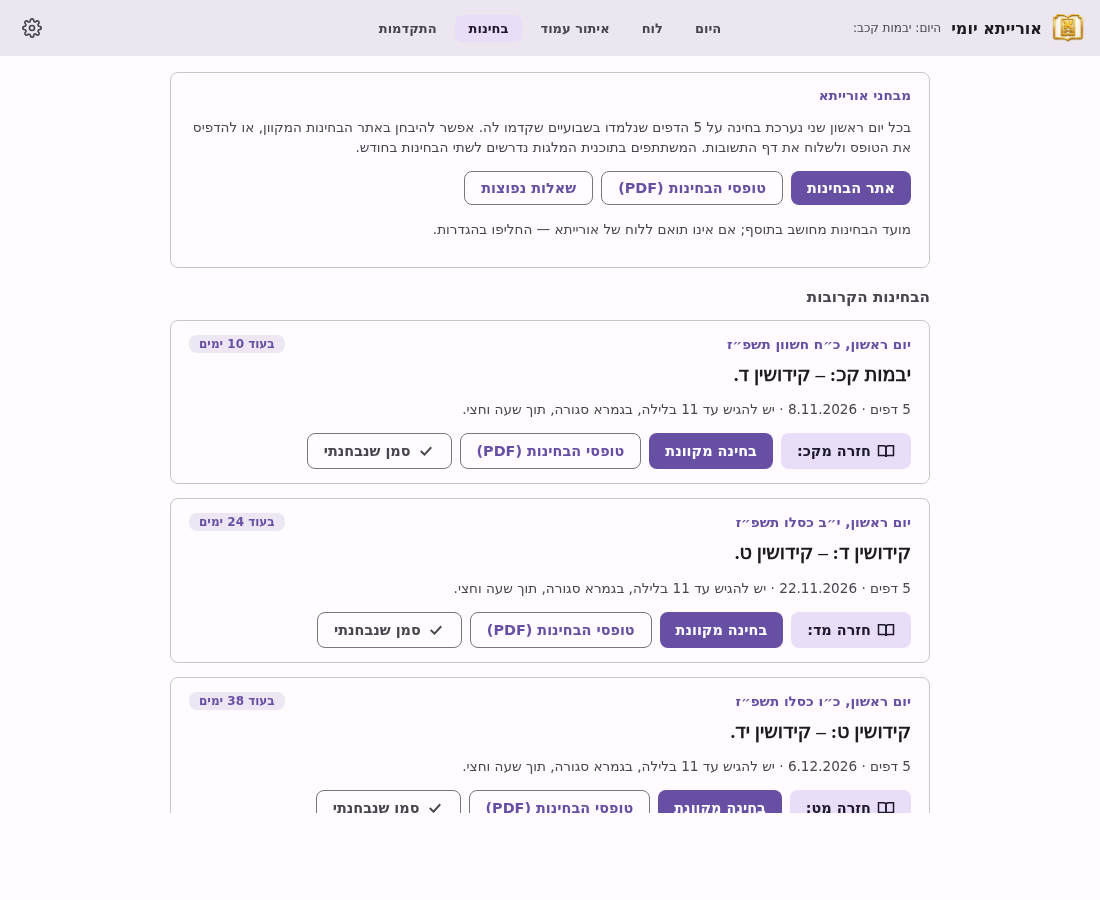
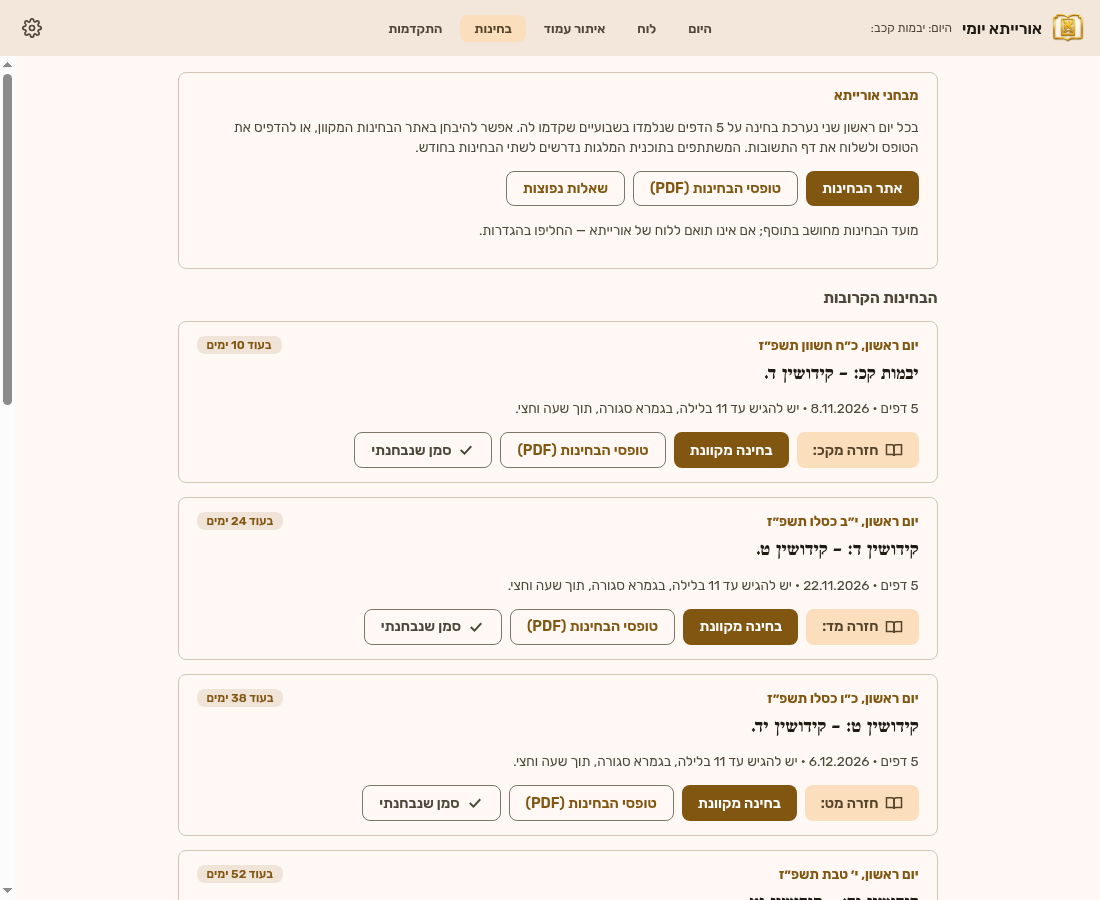
Match Otzaria's theme colors and fonts (default palette, inverse surfaces, color-scheme, reading font for dates)

diff --git a/css/style.css b/css/style.css
@@ -1,21 +1,26 @@
 :root {
-  --color-primary: #6750A4;
+  color-scheme: light;
+  --color-primary: #805610;
   --color-on-primary: #FFFFFF;
-  --color-secondary: #625B71;
+  --color-primary-container: #FFDDB3;
+  --color-on-primary-container: #633F00;
+  --color-secondary: #6F5B40;
   --color-on-secondary: #FFFFFF;
-  --color-secondary-container: #E8DEF8;
-  --color-on-secondary-container: #1D192B;
-  --color-tertiary: #7D5260;
-  --color-surface: #FFFBFE;
-  --color-on-surface: #1C1B1F;
-  --color-on-surface-variant: #49454F;
-  --color-surface-container: #F3EDF7;
-  --color-surface-container-high: #ECE6F0;
-  --color-surface-container-highest: #E6E0E9;
-  --color-error: #B3261E;
+  --color-secondary-container: #FBDEBC;
+  --color-on-secondary-container: #56442A;
+  --color-tertiary: #51643F;
+  --color-surface: #FFF8F4;
+  --color-on-surface: #201B13;
+  --color-on-surface-variant: #4F4539;
+  --color-surface-container: #F9ECDF;
+  --color-surface-container-high: #F3E6DA;
+  --color-surface-container-highest: #EDE0D4;
+  --color-inverse-surface: #362F27;
+  --color-on-inverse-surface: #FCEFE2;
+  --color-error: #BA1A1A;
   --color-on-error: #FFFFFF;
-  --color-outline: #79747E;
-  --color-outline-variant: #CAC4D0;
+  --color-outline: #817567;
+  --color-outline-variant: #D3C4B4;
   --color-scrim: #000000;
   --color-primary-subtle: color-mix(in srgb, var(--color-primary) 12%, transparent);
   --color-error-subtle: color-mix(in srgb, var(--color-error) 10%, transparent);
@@ -108,7 +113,7 @@ button { font-family: var(--font-ui); }
 
 .day-nav { display: flex; align-items: center; gap: 8px; }
 .day-nav .date-block { flex: 1; text-align: center; min-width: 0; }
-.date-main { font-size: 1.25rem; font-weight: 700; }
+.date-main { font-family: var(--font-main); font-size: 1.35rem; font-weight: 700; }
 .date-sub { font-size: 0.85rem; color: var(--color-on-surface-variant); margin-top: 2px; }
 .holiday { color: var(--color-primary); font-weight: 600; }
 
@@ -212,7 +217,7 @@ tr.clickable:hover td { background: var(--color-primary-subtle); }
 
 .toast {
   position: fixed; bottom: 18px; left: 50%; transform: translateX(-50%);
-  background: var(--color-on-surface); color: var(--color-surface);
+  background: var(--color-inverse-surface); color: var(--color-on-inverse-surface);
   padding: 10px 18px; border-radius: var(--radius-md); font-size: 0.9rem; z-index: 30;
 }
 

diff --git a/js/otzaria.js b/js/otzaria.js
@@ -37,6 +37,7 @@
     const root = document.documentElement;
     const map = {
       '--color-primary': cs.primary, '--color-on-primary': cs.onPrimary,
+      '--color-primary-container': cs.primaryContainer, '--color-on-primary-container': cs.onPrimaryContainer,
       '--color-secondary': cs.secondary, '--color-on-secondary': cs.onSecondary,
       '--color-secondary-container': cs.secondaryContainer, '--color-on-secondary-container': cs.onSecondaryContainer,
       '--color-tertiary': cs.tertiary,
@@ -45,9 +46,11 @@
       '--color-surface-container-highest': cs.surfaceContainerHighest,
       '--color-error': cs.error, '--color-on-error': cs.onError,
       '--color-outline': cs.outline, '--color-outline-variant': cs.outlineVariant,
+      '--color-inverse-surface': cs.inverseSurface, '--color-on-inverse-surface': cs.onInverseSurface,
       '--color-scrim': cs.scrim,
     };
     for (const [k, v] of Object.entries(map)) if (v) root.style.setProperty(k, v);
+    root.style.colorScheme = theme.mode === 'dark' ? 'dark' : 'light';
     document.body.classList.toggle('dark-mode', theme.mode === 'dark');
     const t = theme.typography;
     if (t) {
